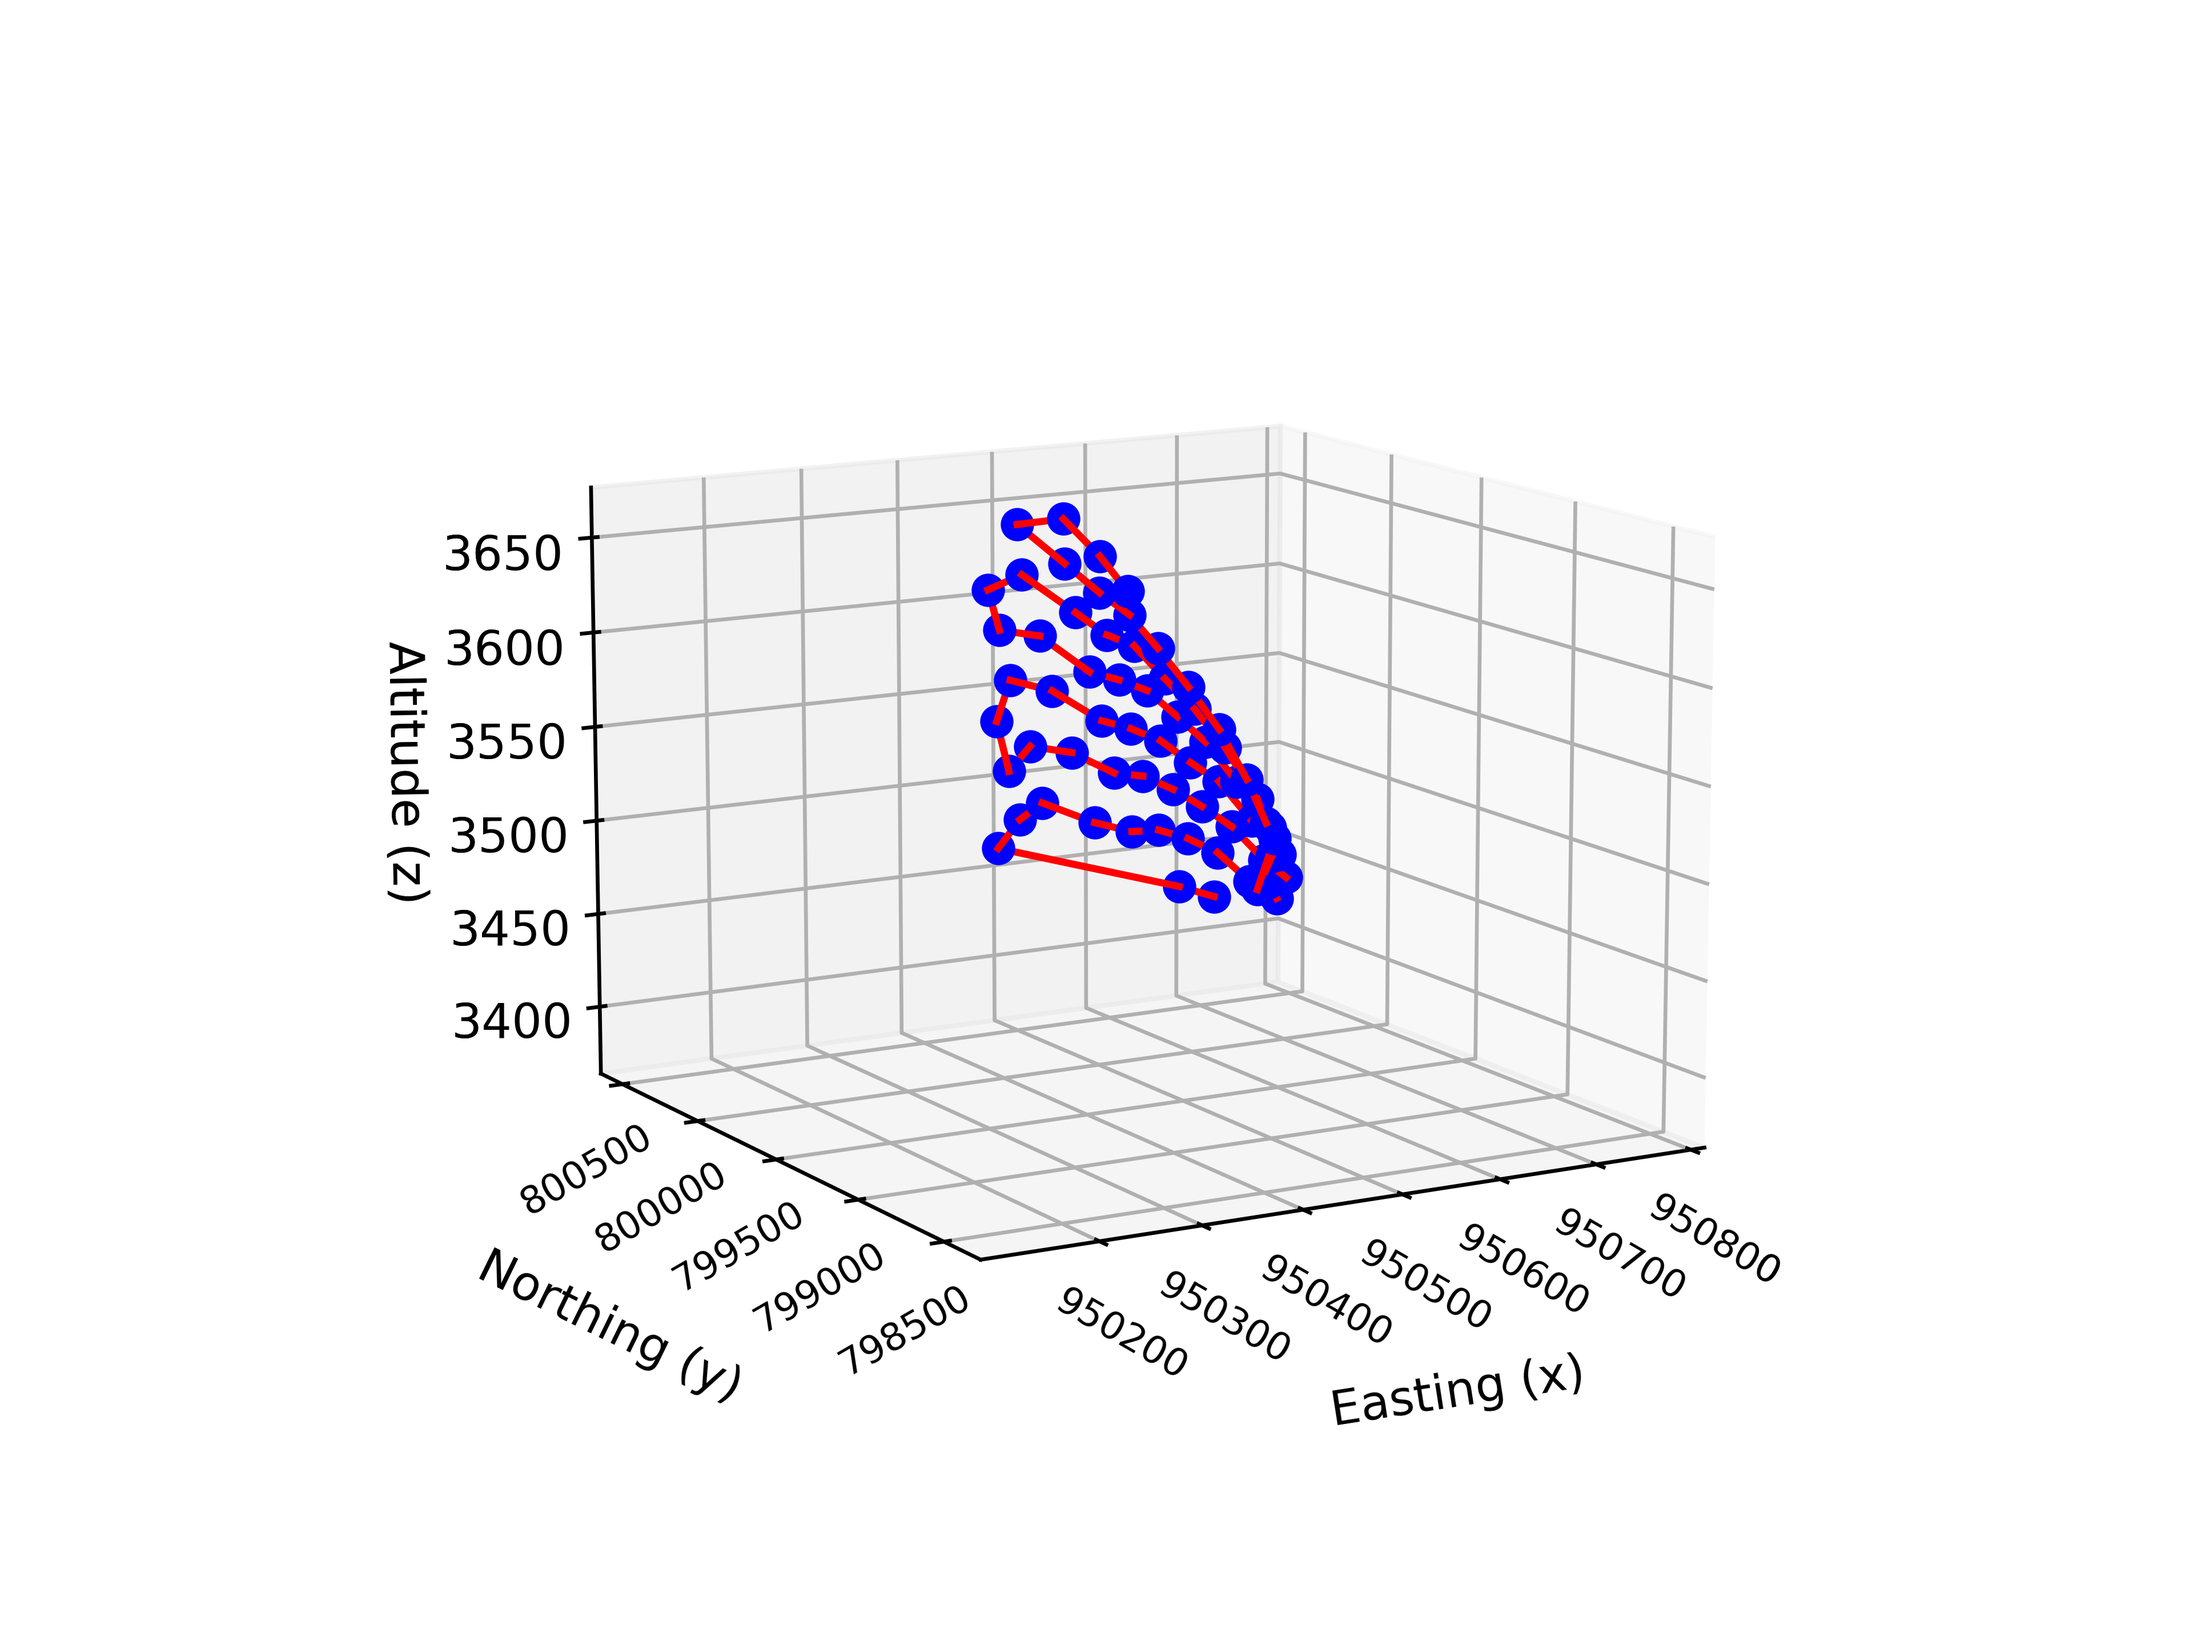
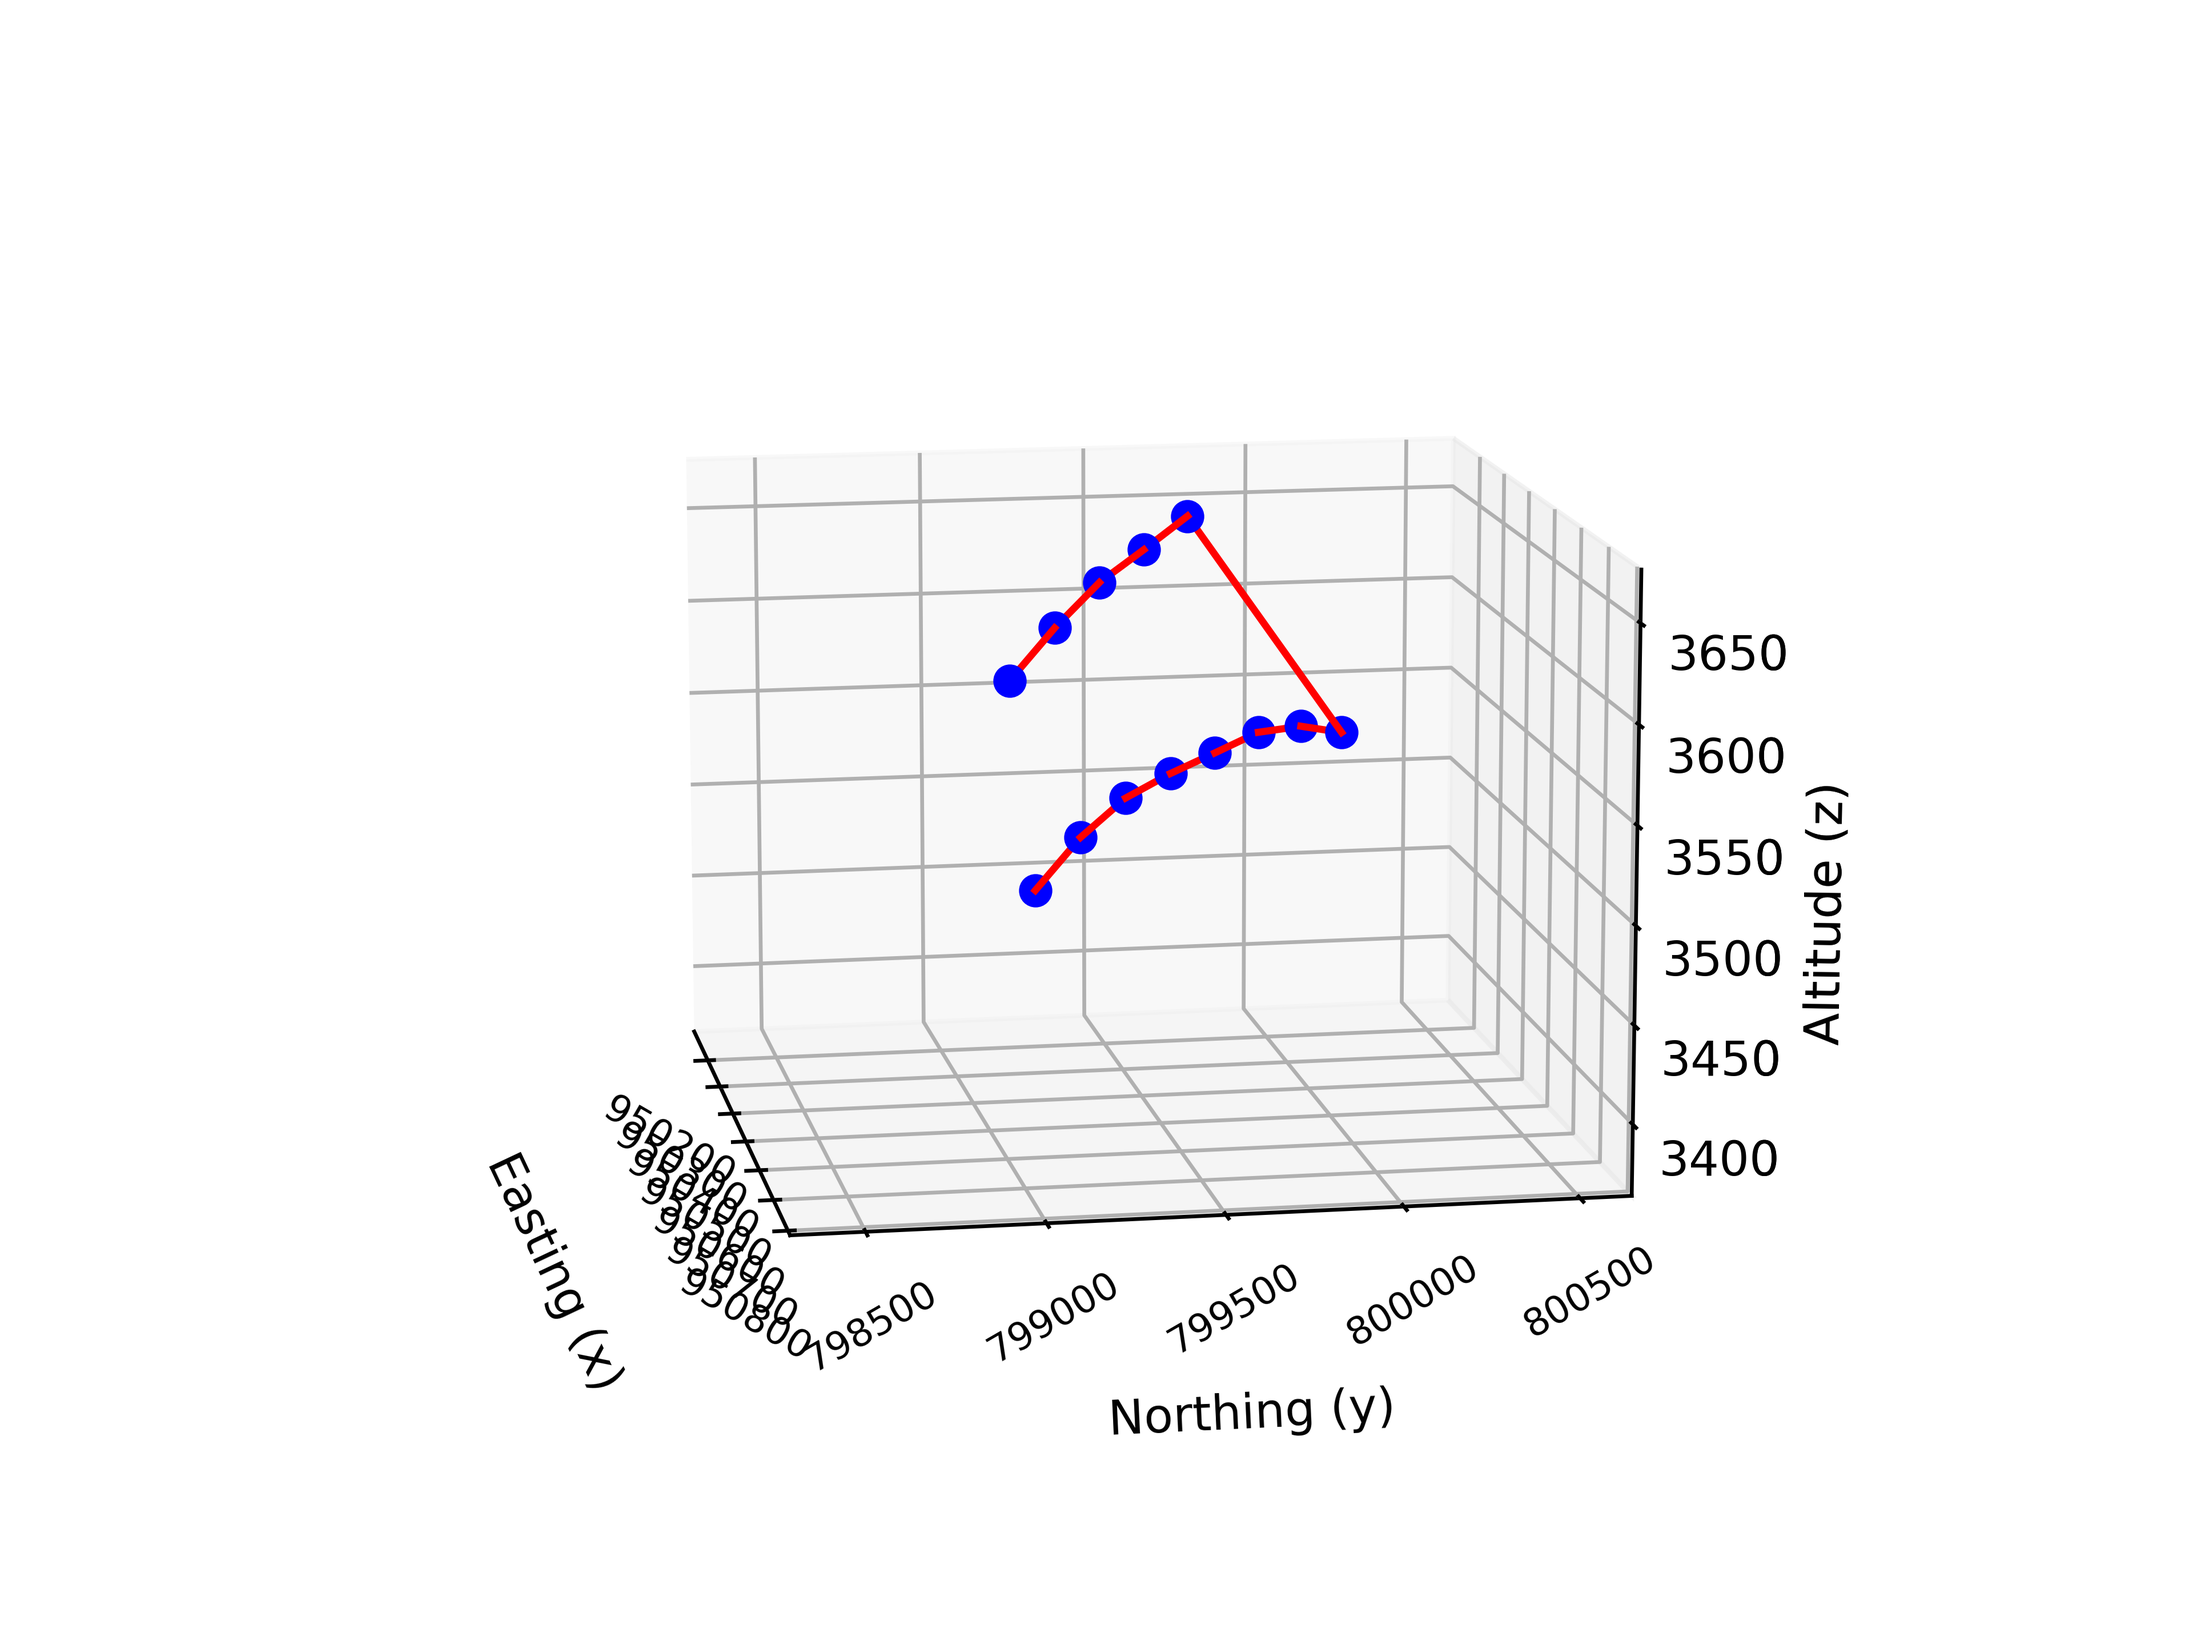
generate a bunch of images

diff --git a/generate_waypoints.py b/generate_waypoints.py
@@ -115,14 +115,21 @@ class WaypointPlotter(WaypointGenerator):
         z = scipy.interpolate.griddata(self.spacing, self.values, (x, y), method="linear")
 
         # Configure graph axes and labels
+
         graph = plt.axes(projection="3d", computed_zorder=False)
-        graph.set_xlabel("Easting (x)", labelpad=11)
+        graph.set_xlabel("Easting (x) (ft)", labelpad=11)
         graph.set_ylabel("Northing (y)", labelpad=11)
         graph.set_zlabel("Altitude (z)")
-        graph.tick_params(axis="x", pad=-1, labelsize=8, labelrotation=-30)
-        graph.tick_params(axis="y", pad=-1, labelsize=8, labelrotation=30)
+        graph.tick_params(axis="x", pad=0.2, labelsize=8)
+        graph.tick_params(axis="y", pad=0.2, labelsize=8)
 
-        graph.view_init(elev=12, azim=-120)
+        # graph.xaxis._axinfo['label']['space_factor'] = 2.0
+        # graph.yaxis._axinfo['label']['space_factor'] = 2.0
+        # graph.zaxis._axinfo['label']['space_factor'] = 2.0
+
+        graph.xaxis.labelpad = 30
+        graph.yaxis.labelpad = 30
+        graph.zaxis.labelpad = 30
 
         # Plot terrain
         if plot_surface:
@@ -143,11 +150,18 @@ class WaypointPlotter(WaypointGenerator):
                 last = (point[0], point[1], point[2])
                 plt.plot(*last, "bo")
 
-        # If desired, save file
-        if name is not None:
-            plt.savefig(f"{name}.png", dpi=600)
-        else:
-            plt.show()
+        # do a bunch of views
+        for e in range(5, 31, 5):
+            for a in range(-90, 91, 15):
+                graph.view_init(elev=e, azim=a)
+                file = f"figures/e{e}a{a}-{'' if plot_surface else 'no'}surface.png"
+                plt.savefig(file, dpi=100)
+                print(f"saved {file}")
+        # # If desired, save file
+        # if name is not None:
+        #     plt.savefig(f"{name}.png", dpi=600)
+        # else:
+        #     plt.show()
 
 
 if __name__ == "__main__":

diff --git a/constants.py b/constants.py
@@ -12,7 +12,7 @@ LEFT_BOUND: float = 950310.0
 RIGHT_BOUND: float = 950600.0
 Z_FILTER: float = 3390.0
 
-GLOBAL_SCALE: float = 0.3
+GLOBAL_SCALE: float = 3.0
 METERS_TO_FEET: float = 3.048
 CAMERA_H: float = 15 * METERS_TO_FEET * GLOBAL_SCALE
 CAMERA_V: float = 11.5 * METERS_TO_FEET * GLOBAL_SCALE
